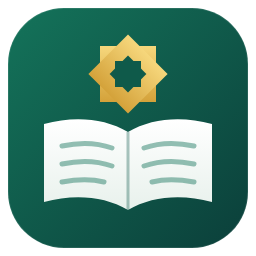
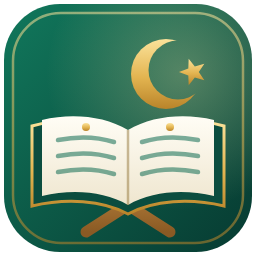
Sürüm 4.35: yeni simge
Claude-Session: https://claude.ai/code/session_01JYirWrT3p24DEGwB4VLCu4

diff --git a/docs/index.html b/docs/index.html
@@ -110,7 +110,7 @@ footer a { color: inherit; }
 <div class="hero"><div class="wrap">
   <p class="ayah">اقْرَأْ بِاسْمِ رَبِّكَ الَّذِي خَلَقَ</p>
   <h1>Kur'an'ı tefsirleriyle,<br>hadisi senediyle okuyun</h1>
-  <p class="lead">Klasik tefsirleri, hadis kitaplarını, şerhleri ve kadim sözlükleri bir arada sunan ücretsiz bir Windows programı. Kurulduktan sonra internet gerektirmez.</p>
+  <p class="lead">Klasik tefsirleri, hadis kitaplarını, şerhleri ve kadim sözlükleri bir arada sunan Windows, Mac ve Linux için ücretsiz bir program. Kurulduktan sonra internet gerektirmez.</p>
   <a class="cta" id="indir" href="https://github.com/fehimdaduk2/tefsir-surum/releases/latest/download/Kurulum.exe">
     <svg viewBox="0 0 24 24" fill="none" stroke="currentColor" stroke-width="2.2" stroke-linecap="round" stroke-linejoin="round"><path d="M12 3v12m0 0-5-5m5 5 5-5M4 19h16"/></svg>
     Ücretsiz indir
